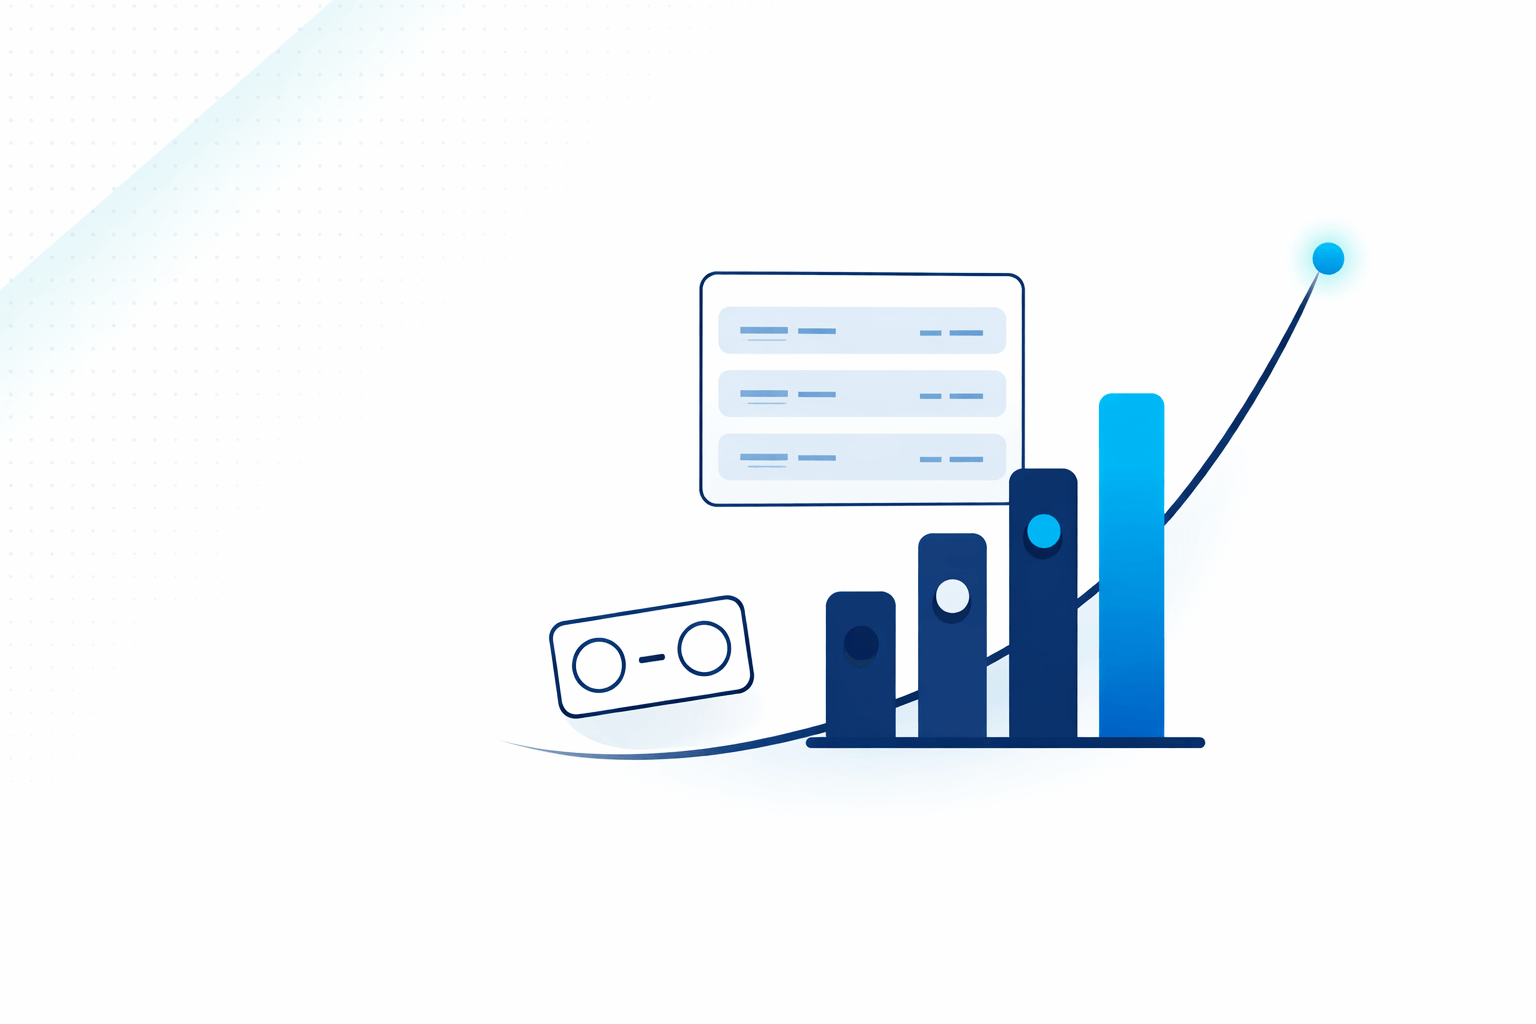
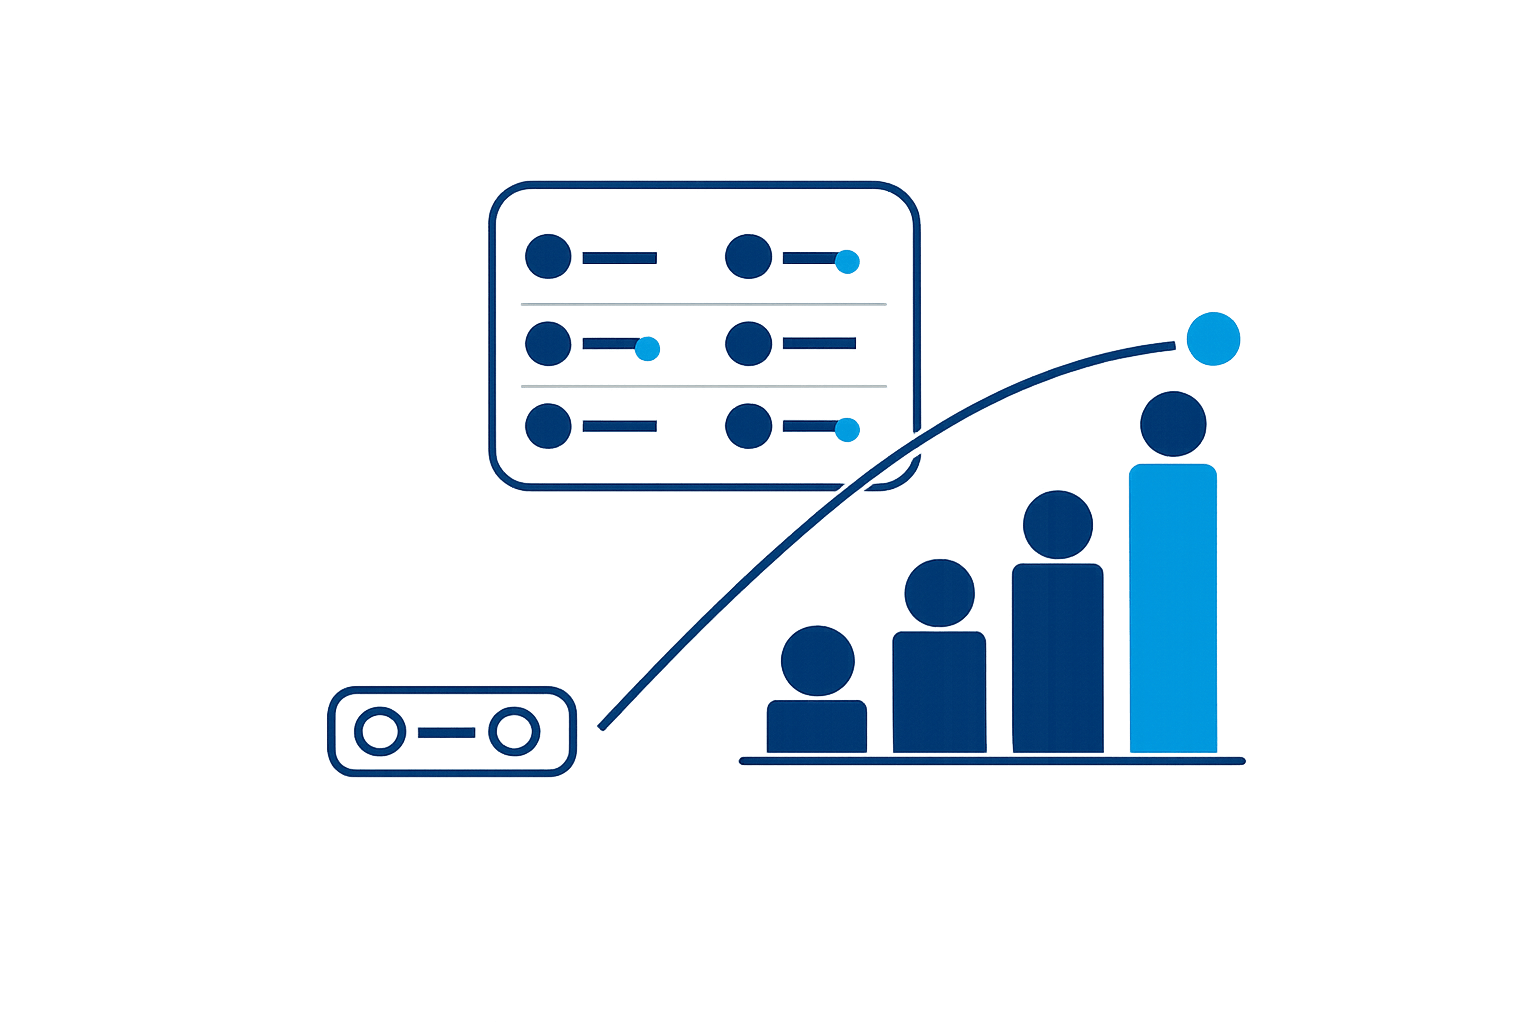
Refresh homepage hero with new illustration and gradient backdrop
Swap hero illustration for the new flat-vector PNG, hide it on mobile,
and give the whole section a soft cyan/navy gradient with a masked dot
grid so the page feels more alive without competing with the copy.

Changed region(s): [[0.1875, 0.1562, 0.8438, 0.7812], [0.8438, 0.2188, 0.9062, 0.3125]]

diff --git a/assets/styles/app.css b/assets/styles/app.css
@@ -56,3 +56,40 @@
         border-color: var(--color-red-400);
     }
 }
+
+/* Public homepage hero — soft diagonal gradient wash + dot grid. Both are
+   masked/faded so they stay quiet behind the copy and illustration. */
+.hero-bg {
+    position: relative;
+    overflow: hidden;
+    isolation: isolate;
+    background:
+        radial-gradient(ellipse 65% 55% at 88% 8%, rgba(20, 154, 213, 0.16) 0%, transparent 70%),
+        radial-gradient(ellipse 75% 65% at -5% 105%, rgba(8, 30, 68, 0.10) 0%, transparent 65%),
+        linear-gradient(160deg, #ffffff 0%, #eaf2f9 100%);
+}
+
+/* Dot grid — full coverage, masked with a soft radial so the pattern
+   concentrates around the centre/right and fades near the edges. */
+.hero-bg::before {
+    content: '';
+    position: absolute;
+    inset: 0;
+    background-image: radial-gradient(circle, rgba(8, 30, 68, 0.14) 1.25px, transparent 1.25px);
+    background-size: 22px 22px;
+    mask-image: radial-gradient(ellipse 90% 80% at 60% 50%, black 0%, transparent 90%);
+    -webkit-mask-image: radial-gradient(ellipse 90% 80% at 60% 50%, black 0%, transparent 90%);
+    pointer-events: none;
+    z-index: 0;
+}
+
+/* Hairline divider fading into the next section. */
+.hero-bg::after {
+    content: '';
+    position: absolute;
+    inset: auto 0 0 0;
+    height: 1px;
+    background: linear-gradient(90deg, transparent, rgba(8, 30, 68, 0.08), transparent);
+    pointer-events: none;
+    z-index: 0;
+}
